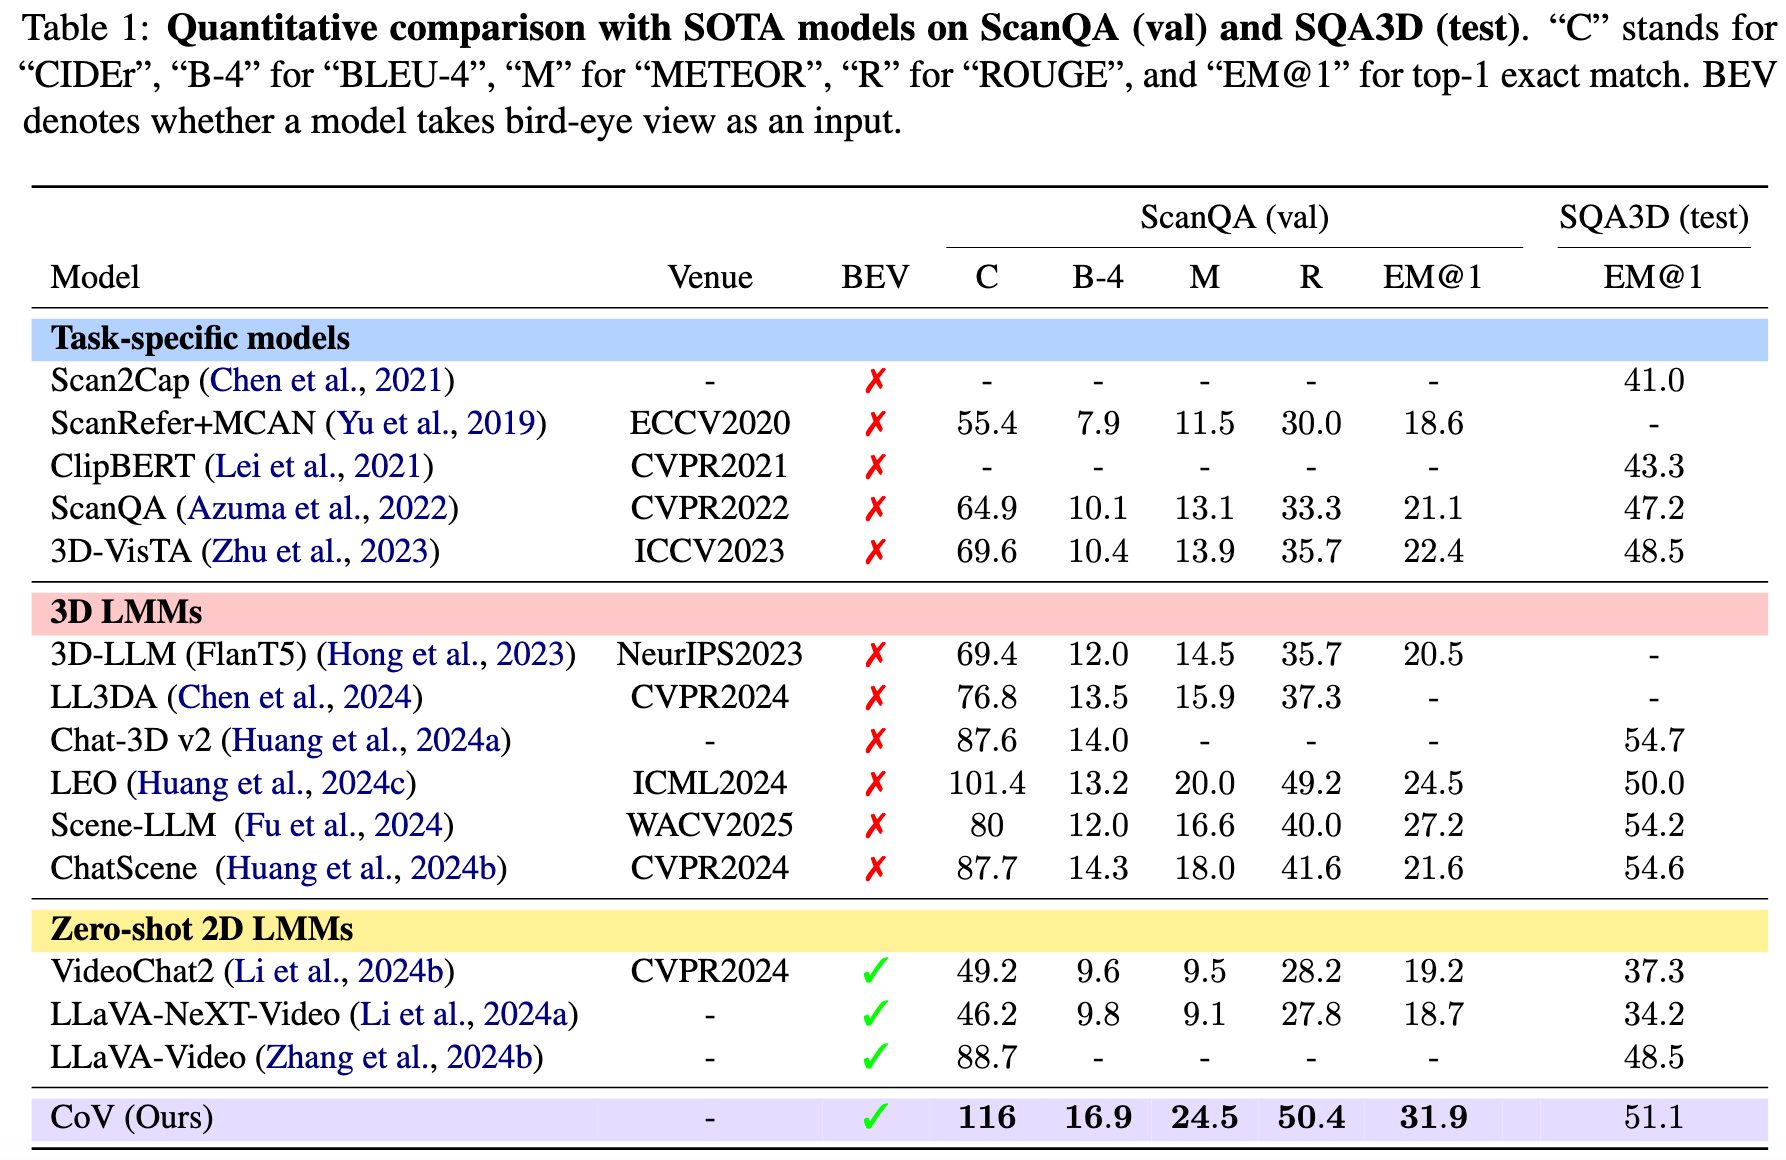
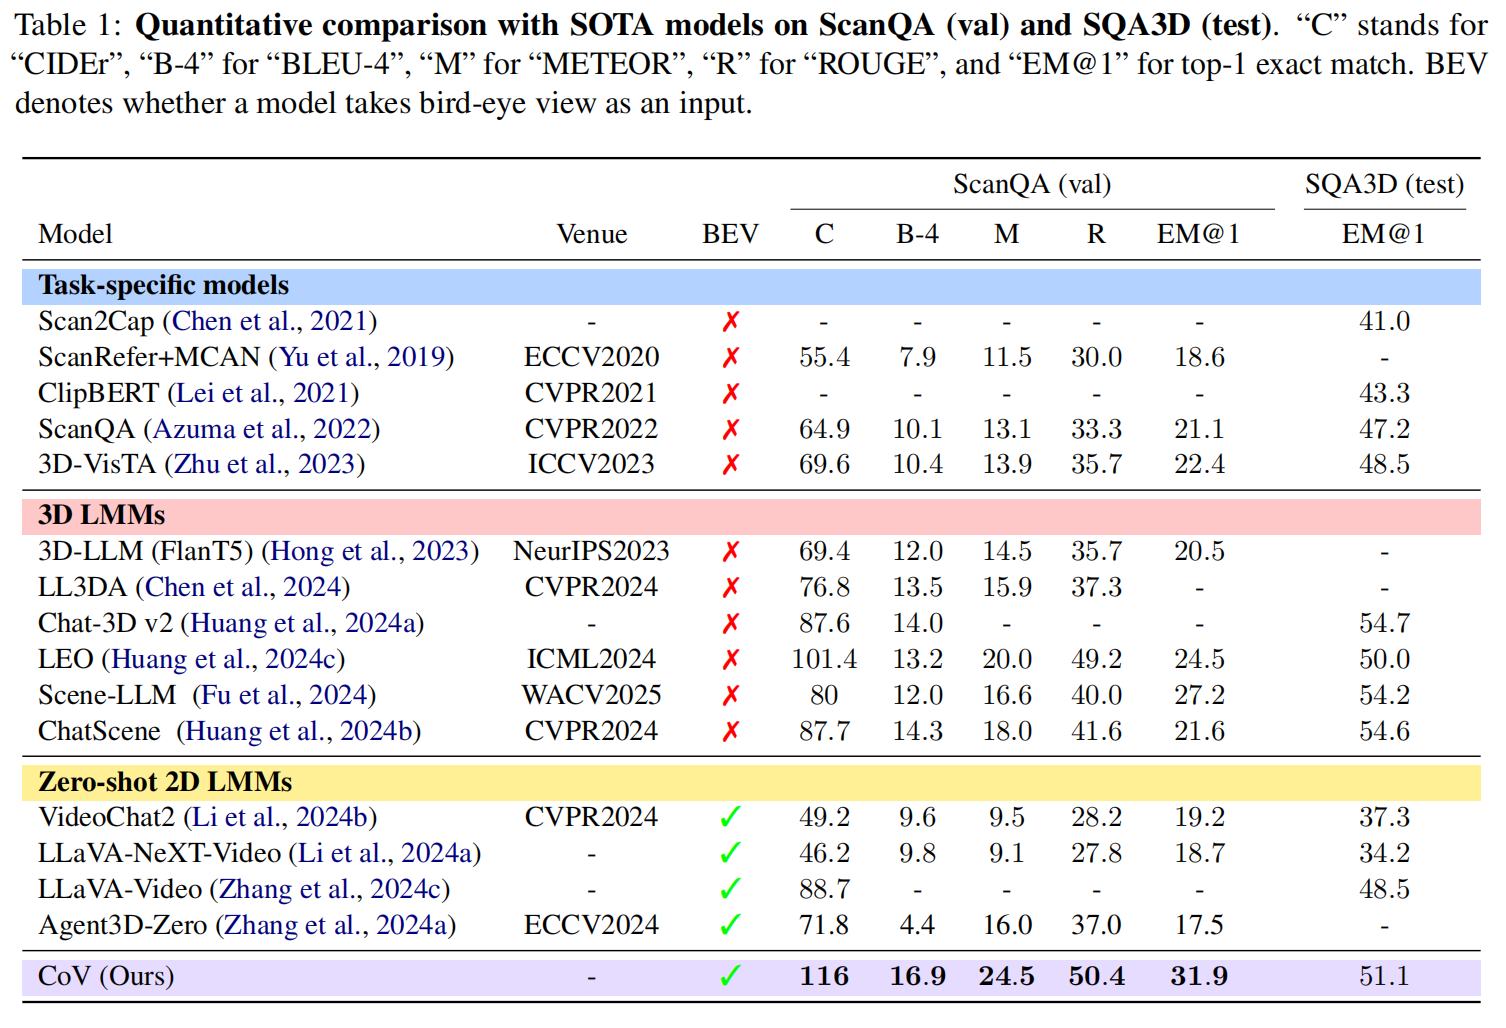
website: update.

diff --git a/index.html b/index.html
@@ -22,7 +22,7 @@
   <link href="css/theme.css" rel="stylesheet" />
 
   <link href="https://cdn.jsdelivr.net/gh/jpswalsh/academicons@1/css/academicons.min.css" rel="stylesheet" />
-  <link href="https://cdnjs.cloudflare.com/ajax/libs/font-awesome/5.15.4/css/all.min.css" rel="stylesheet">
+  <link href="https://cdnjs.cloudflare.com/ajax/libs/font-awesome/7.0.0/css/all.min.css" rel="stylesheet">
   <link href="https://fonts.googleapis.com/css2?family=Philosopher:ital,wght@0,400;0,700;1,400;1,700&display=swap"
     rel="stylesheet">
   <link href="https://cdn.jsdelivr.net/npm/katex@0.13.18/dist/katex.min.css" rel="stylesheet" />
@@ -79,6 +79,14 @@
                     <a class="btn btn-large btn-light" href="https://github.com/ziplab/CoV" role="button">
                       <i class="fas fa-code"></i>
                       <b>Code</b>
+                    </a>
+                  </p>
+                </div>
+                <div class="column">
+                  <p class="mb-5">
+                    <a class="btn btn-large btn-light" href="https://x.com/i/status/2010272468762800264" role="button">
+                      <i class="fa-brands fa-x-twitter"></i>
+                      <b>Trending on X</b>
                     </a>
                   </p>
                 </div>
@@ -232,29 +240,6 @@
       </div>
   </section>
 
-  <!-- Citing -->
-  <div class="container">
-    <div class="row">
-      <div class="col-md-10" style="margin: auto;">
-
-        <h3>Citation</h3>
-        <hr style="margin-top: 0px" />
-        <div style="position: relative;">
-          <button id="copyBtn" onclick="copyBibTeX()"
-            style="position: absolute; top: 10px; right: 10px; padding: 5px 10px; background-color: #429dda; color: white; border: none; border-radius: 5px; cursor: pointer; font-size: 14px;">
-            Copy
-          </button>
-          <pre id="bibtex" style="background-color: #e9eeef; padding: 1.5em 1.5em; border-radius: 15px; margin: 0;"><code>@article{zhao2026cov,
-  title={CoV: Chain-of-View Prompting for Spatial Reasoning},
-  author={Zhao, Haoyu and Liu, Akide and Zhang, Zeyu and Wang, Weijie and Chen, Feng and Zhu, Ruihan and Haffari, Gholamreza and Zhuang, Bohan},
-  journal={arXiv preprint arXiv:2601.05172},
-  year={2026}
-}</code></pre>
-        </div>
-      </div>
-    </div>
-  </div>
-
   <!-- More Visualization -->
   <section>
     <div class="container">
@@ -298,6 +283,29 @@
     </div>
   </section>
 
+  <!-- Citing -->
+  <div class="container">
+    <div class="row">
+      <div class="col-md-10" style="margin: auto;">
+
+        <h3>Citation</h3>
+        <hr style="margin-top: 0px" />
+        <div style="position: relative;">
+          <button id="copyBtn" onclick="copyBibTeX()"
+            style="position: absolute; top: 10px; right: 10px; padding: 5px 10px; background-color: #429dda; color: white; border: none; border-radius: 5px; cursor: pointer; font-size: 14px;">
+            Copy
+          </button>
+          <pre id="bibtex" style="background-color: #e9eeef; padding: 1.5em 1.5em; border-radius: 15px; margin: 0;"><code>@article{zhao2026cov,
+  title={CoV: Chain-of-View Prompting for Spatial Reasoning},
+  author={Zhao, Haoyu and Liu, Akide and Zhang, Zeyu and Wang, Weijie and Chen, Feng and Zhu, Ruihan and Haffari, Gholamreza and Zhuang, Bohan},
+  journal={arXiv preprint arXiv:2601.05172},
+  year={2026}
+}</code></pre>
+        </div>
+      </div>
+    </div>
+  </div>
+
   <script>
     function copyBibTeX() {
       const bibtex = document.getElementById('bibtex').innerText;
@@ -319,12 +327,12 @@
   <footer class="text-center" style="margin-bottom: 10px">
     Thanks to
     <a href="https://lioryariv.github.io/">Lior Yariv</a>
-    for the website template.
+    for the original website template.
     Thanks to the
-    <a href="https://isshikihugh.github.io/HSMR/">HSMR</a>'s
+    <a href="https://github.com/ziplab/VolSplat">VolSplat</a>'s
     and
-    <a href="https://zju3dv.github.io/4k4d/">4K4D</a>'s
-    project pages for the useful add-ons.
+    <a href="https://lhmd.top/zpressor/">ZPressor</a>'s
+    custom theme and useful add-ons.
   </footer>
 
 </body>
